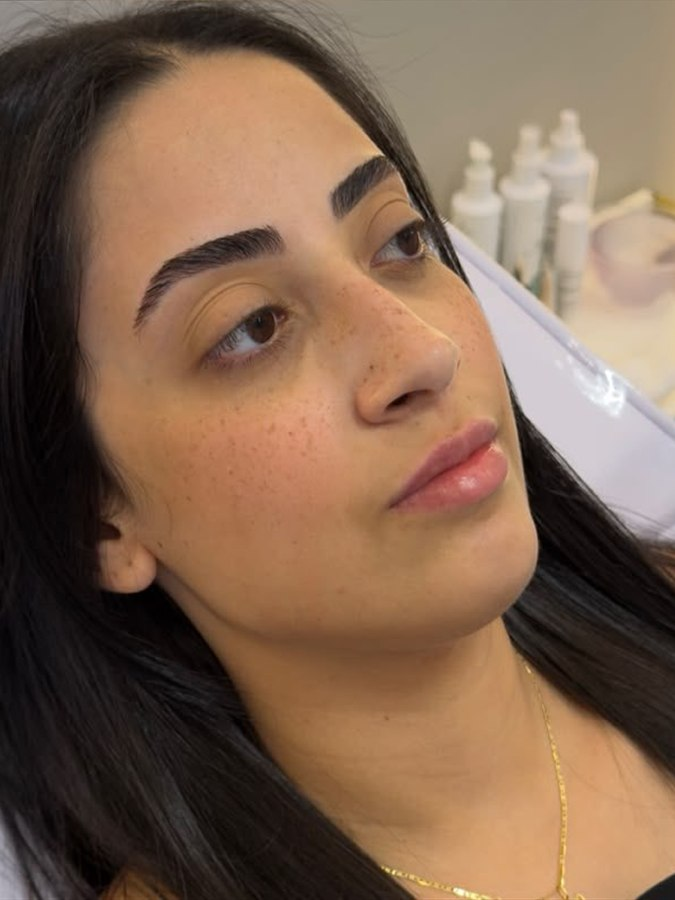
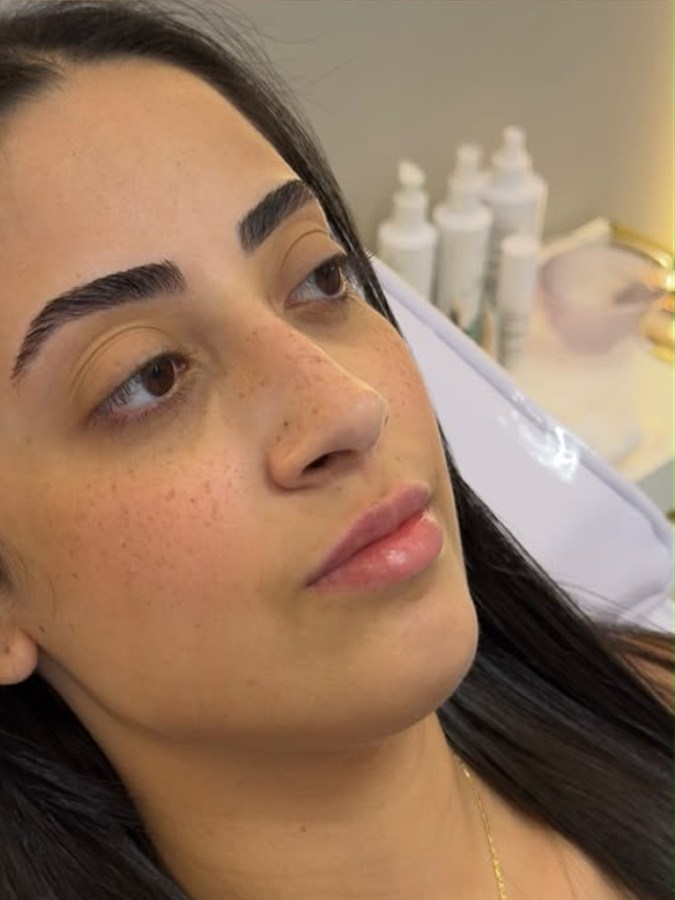
Centraliza as fotos: Sobre e cards no celular, e recorte de Harmonizacao, Labios e Rinomodelacao

diff --git a/index.html b/index.html
@@ -276,10 +276,13 @@ details[open] .pm { transform: rotate(45deg); }
   .hero__text .display { margin-top: 0; }
   .seal { left: -22px; bottom: 24px; width: 104px; height: 104px; }
   .seal .mono { width: 44px; height: 44px; }
-  .about__media { width: min(92%, 440px); margin: 0 auto 48px; padding: 28px 0 28px 28px; }
+  .about__media { width: min(92%, 440px); margin: 0 auto 48px; padding: 24px 0; }
+  .about__media::before { inset: 0 6%; }
+  .about__media .photo { width: 80%; margin: 0 auto; }
   .cards { grid-template-columns: none; grid-auto-flow: column; grid-auto-columns: 78%; overflow-x: auto; scroll-snap-type: x mandatory; gap: 16px; padding-bottom: 12px; margin-inline: calc(var(--gutter) * -1); padding-inline: var(--gutter); scroll-padding-inline: var(--gutter); scrollbar-width: none; }
   .cards::-webkit-scrollbar { display: none; }
-  .card { scroll-snap-align: start; }
+  .cards { grid-auto-columns: 78vw; padding-inline: 11vw; scroll-padding-inline: 11vw; }
+  .card { scroll-snap-align: center; }
   .plan__media { margin: 0 auto 40px; width: min(80%, 360px); }
   .faq__head { margin-bottom: 30px; }
   .contact__card { position: relative; right: auto; bottom: auto; margin: -64px auto 0; width: calc(100% - 32px); padding: 26px 22px; }
